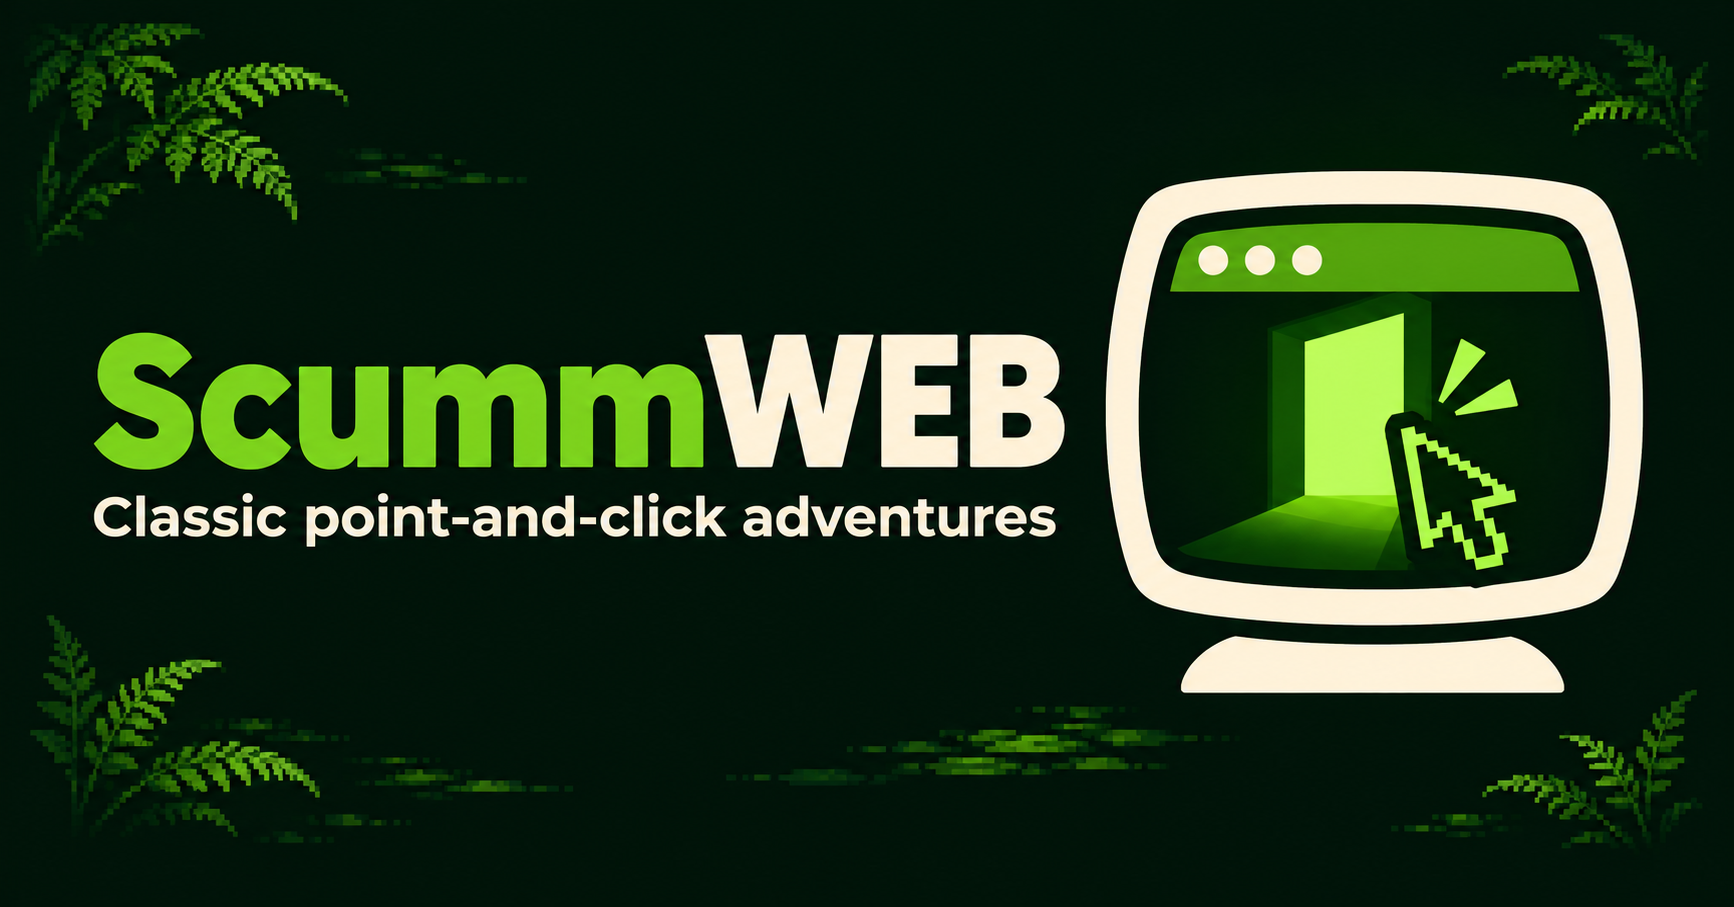
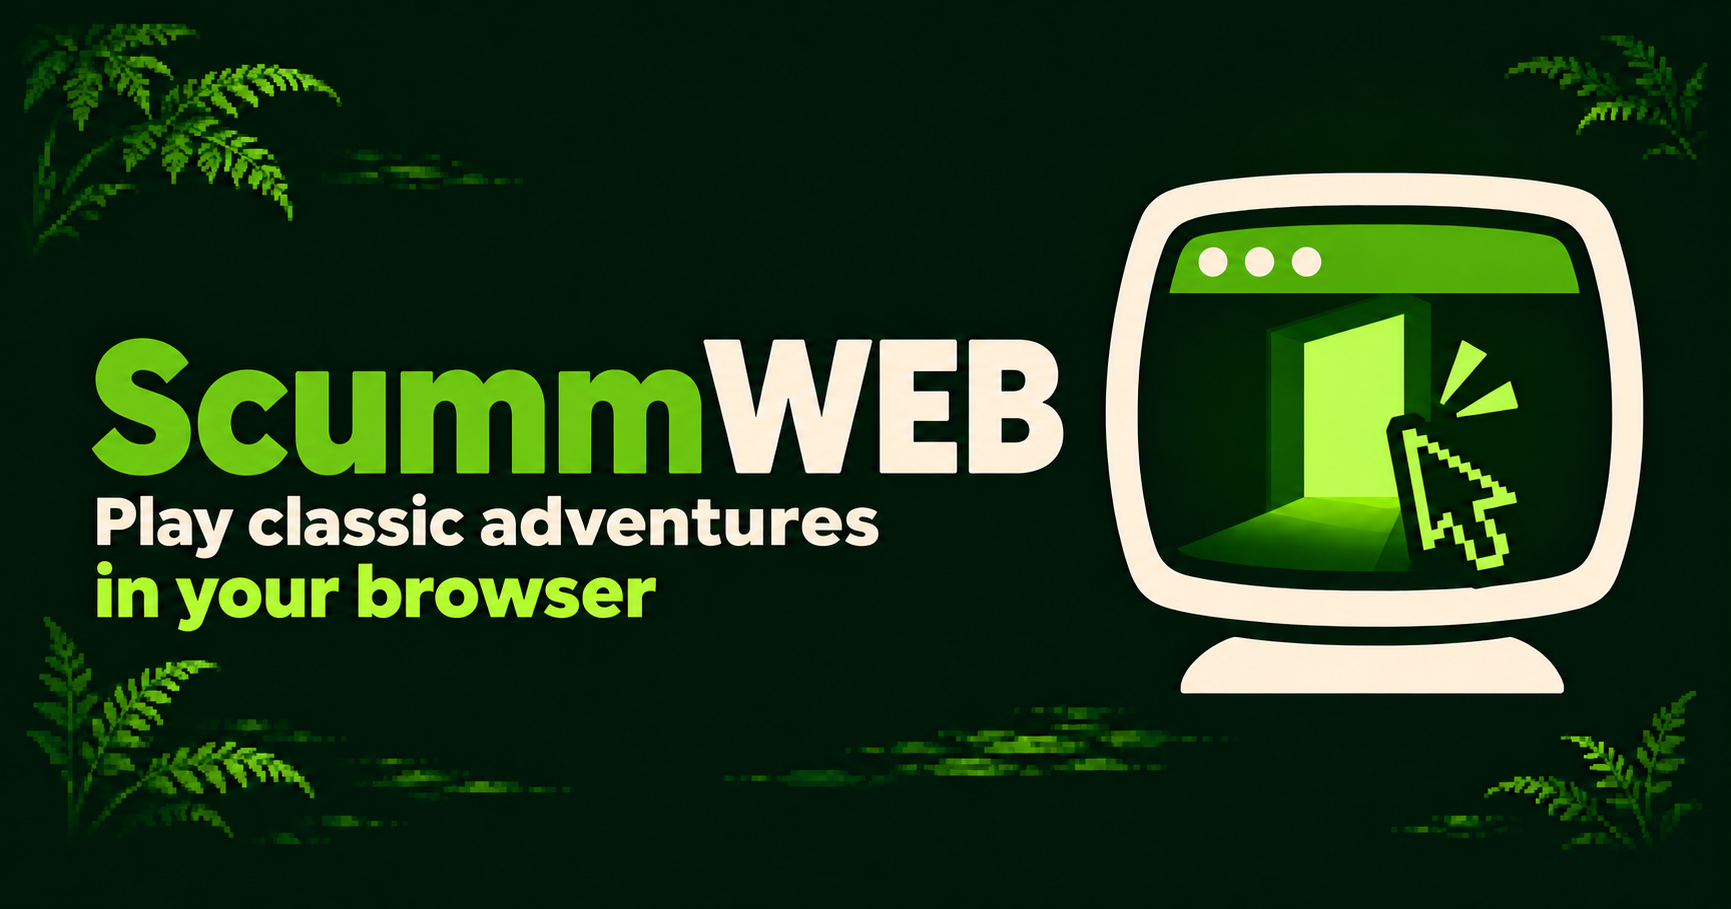
Use browser-play artwork for the homepage preview

diff --git a/docs/maintaining-scummweb.md b/docs/maintaining-scummweb.md
@@ -1019,6 +1019,8 @@ export hashes, and the [web asset manifest](../public/brand/manifest.json)
 lists the exports and their dimensions.
 
 The homepage serves the Adventure Terminal social card at `/opengraph-image`.
+When the card changes, update the image URL in `lib/seo.mjs` with `v=sw-`
+followed by the first 16 characters of the exported PNG's SHA-256.
 Game pages use their individual social cards. The shell finalizer copies the
 browser and install icons from [`public/brand/web-seo/`](../public/brand/web-seo/)
 into the managed shell during ScummVM rebuilds.
